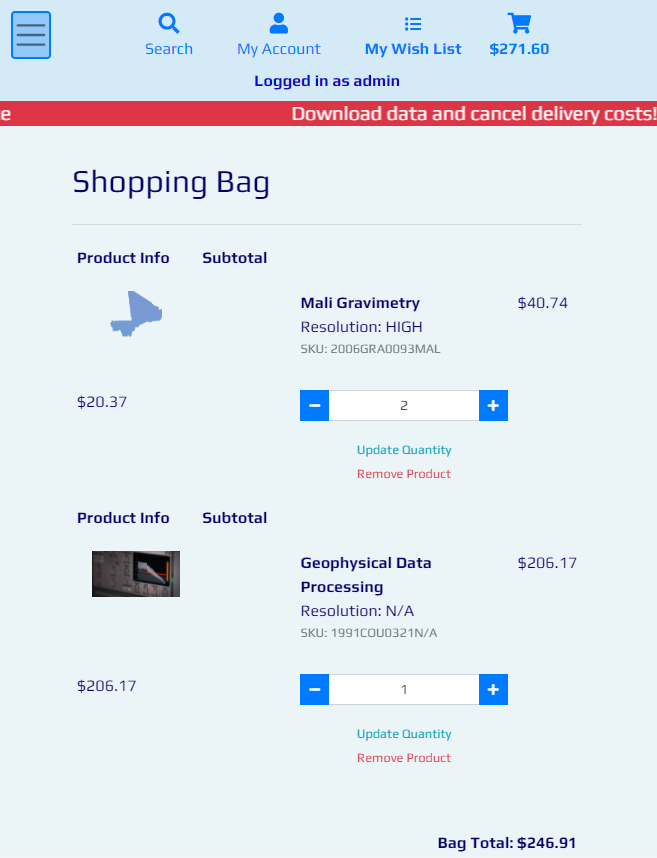
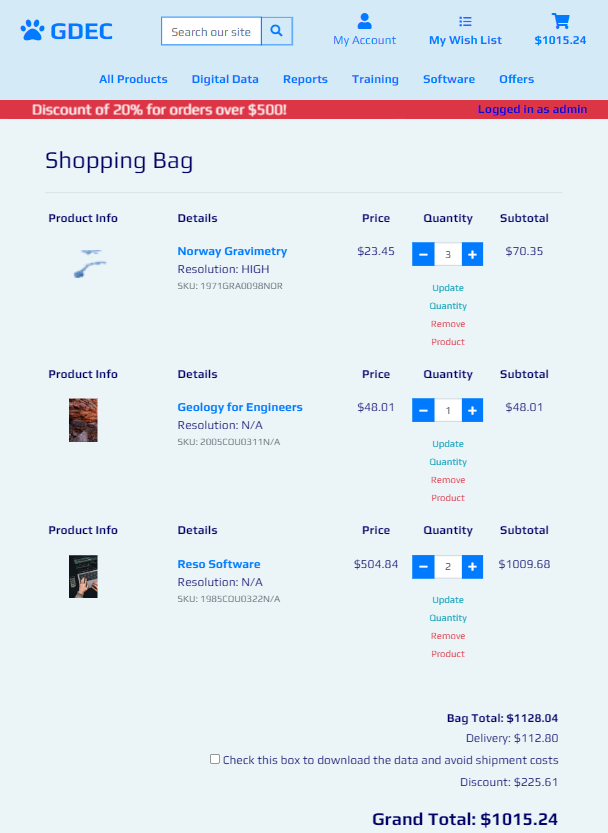
Correct tables in wish list and bag, and add evidence for user stories testing of returning users

diff --git a/bag/templates/bag/bag.html b/bag/templates/bag/bag.html
@@ -36,7 +36,7 @@
                             <tr class="d-none d-md-table-row">
                                 <!-- Product details -->
                                 <th scope="col">Product Info</th>
-                                <th scope="col" hidden>Product Details</th>
+                                <th scope="col">Details</th>
                                 <th scope="col" class="text-center">Price</th>
                                 <th scope="col" class="text-center">Quantity</th>
                                 <th scope="col" class="text-center">Subtotal</th>
@@ -116,14 +116,13 @@
                             <!-- Table for small size screens -->
                             <tr class="d-table-row d-md-none">
                                 <!-- Product details -->
-                                <th scope="col">Product Info</th>
-                                <th scope="col" hidden>Product Details</th>
+                                <th scope="col" colspan="2">Product Info</th>
+                                <th scope="col">Details</th>
                                 <th scope="col" hidden>Price</th>
-                                <th scope="col" hidden>Quantity</th>
                                 <th scope="col">Subtotal</th>
                             </tr>
                             <tr class="d-table-row d-md-none">
-                                <td class="p-3 w-50" colspan="2">
+                                <td class="p-3 w-50" colspan="1">
                                     <!-- Assign image to product or default "no-image" in database -->
                                     {% if item.product.image_name %}
                                     <img class="img-fluid rounded bag-image" src="{{ item.product.image_name.url }}" alt="{{ item.product.name }}">
@@ -137,7 +136,7 @@
                                     <p class="my-0">Resolution: {% if item.product.resolution %}{{ item.resolution|upper }}{% else %}N/A{% endif %}</p>
                                     <p class="my-0 small text-muted">SKU: {{ item.product.sku|upper }}</p>
                                 </td>
-                                <td class="py-3" rowspan="2">
+                                <td class="py-3" colspan="2">
                                     <p class="my-0">${{ item.product.price | calc_subtotal:item.quantity }}</p>
                                 </td>
                             </tr>
@@ -145,7 +144,7 @@
                                 <td class="py-3 w-25" colspan="2">
                                     <p class="my-0">${{ item.product.price }}</p>
                                 </td>
-                                <td class="py-3 w-75" colspan="2">
+                                <td class="py-3 w-75" colspan="1">
                                     <!-- Update bag if requested -->
                                     <form class="form update-form" method="POST" action="{% url 'adjust_bag' item.item_id %}">
                                         {% csrf_token %}
@@ -187,7 +186,9 @@
                                     </form>
                                     <a class="update-link text-info w-100 text-center float-right" id="update-bag-small-screen_{{ item.item_id }}_{{ item.resolution }}"><small>Update Quantity</small></a>
                                     <a class="remove-item text-danger w-100 text-center float-right" id="remove-from-bag-small-screen_{{ item.item_id }}_{{ item.resolution }}" data-product_resolution="{{ item.resolution }}"><small>Remove Product</small></a>
-                                </td>   
+                                </td>
+                                <td></td>
+                                <td></td>
                             </tr>
                         {% endfor %}                        
                         <tr>

diff --git a/wish/templates/wish/wish_list.html b/wish/templates/wish/wish_list.html
@@ -37,8 +37,8 @@
                             <!-- Product details -->
                             <tr class="d-none d-md-table-row">
                                 <!-- Product details -->
-                                <th scope="col" class="w-25" colspan="2">Product Info</th>
-                                <th scope="col" class="w-25" hidden>Product Details</th>
+                                <th scope="col" class="w-25">Product Info</th>
+                                <th scope="col" class="w-25">Details</th>
                                 <th scope="col" class="text-center">Price</th>
                                 <th scope="col" class="text-center">Quantity</th>
                                 <th scope="col" class="text-center">Subtotal</th>
@@ -57,7 +57,7 @@
                                     </a>
                                     {% endif %}
                                 </td>
-                                <td class="py-3 w-25" colspan="2">
+                                <td class="py-3 w-25" colspan="1">
                                     <!-- Include resolution if applicable -->
                                     <a href="{% url 'product_detail' item.product.id %}">
                                         <p class="my-0"><strong>{{ item.product.name }}</strong></p>

diff --git a/README.md b/README.md
@@ -2085,9 +2085,9 @@ The following are testing of User Stories previously described above:
 | Fixed navigation menu<br>Products (with product administration for the site owner)<br>Product details (with product administration for the site owner)<br> | Create a data model where products are viewed in the body of a unique page according to a specific selection | Show all products in a page (in the body) according to the selection and/or sort in the fixed navigation menu | Works as expected | 
 
 <details>
-    <summary>Screenshot</summary>
+    <summary>Products Page</summary>
 
-![Esri/ArcGIS Map to Pick Location](docs/features-and-evidence/Esri-map.PNG) 
+![Esri/ArcGIS Map to Pick Location](docs/features-and-evidence/products-to-buy.PNG) 
 </details>
 <br><br>
 
@@ -2099,9 +2099,9 @@ The following are testing of User Stories previously described above:
 | Fixed navigation menu<br>Products (with product administration for the site owner)<br>Product details (with product administration for the site owner)<br> | Create a view with product details after clicking on the product itself  | Show product details in a different page/view | Works as expected | 
 
 <details>
-    <summary>Screenshot</summary>
+    <summary>Product Details</summary>
 
-![Esri/ArcGIS Map to Pick Location](docs/features-and-evidence/Esri-map.PNG) 
+![Esri/ArcGIS Map to Pick Location](docs/features-and-evidence/product-details-to-buy.PNG) 
 </details>
 <br><br>
 
@@ -2113,9 +2113,14 @@ The following are testing of User Stories previously described above:
 | Fixed navigation menu<br>Bag page<br>Checkout page<br> | Create a bag app to show the current shopping cart, with a link in the fixed navigation menu | Show shopping cart in a different page/view | Works as expected | 
 
 <details>
-    <summary>Screenshot</summary>
+    <summary>Shopping Bag, top</summary>
 
-![Esri/ArcGIS Map to Pick Location](docs/features-and-evidence/Esri-map.PNG) 
+![Shopping Bag, top](docs/features-and-evidence/shopping-bag-top.PNG) 
+</details>
+<details>
+    <summary>Shopping Bag, bottom</summary>
+
+![Shopping Bag, bottom](docs/features-and-evidence/shopping-bag-bottom.PNG) 
 </details>
 <br><br>
 
@@ -2127,9 +2132,9 @@ The following are testing of User Stories previously described above:
 | Fixed navigation menu<br>Bag page<br> | Compute total of bag and return it to the view containing the fixed navigation menu | Show spent amount, at all times, in fixed navigation menu | Works as expected | 
 
 <details>
-    <summary>Screenshot</summary>
+    <summary>Permanent Spending Amount</summary>
 
-![Esri/ArcGIS Map to Pick Location](docs/features-and-evidence/Esri-map.PNG) 
+![Permanent Spending Amount](docs/features-and-evidence/spending-amount.PNG) 
 </details>
 <br><br>
 
@@ -2141,9 +2146,14 @@ The following are testing of User Stories previously described above:
 | Fixed navigation menu<br> | Include a link/list item element to special offers in the fixed navigation menu | Access special offers after cliking on this link/list item element of the menu | Works as expected | 
 
 <details>
-    <summary>Screenshot</summary>
+    <summary>Easy Access for Offers</summary>
 
-![Esri/ArcGIS Map to Pick Location](docs/features-and-evidence/Esri-map.PNG) 
+![Easy Access for Offers](docs/features-and-evidence/Esri-map.PNG) 
+</details>
+<details>
+    <summary>Easy Access for Offers in Checkout</summary>
+
+![Easy Access for Offers in Checkout](docs/features-and-evidence/checkout-success-with-offers-button.jpg) 
 </details>
 <br><br>
 
@@ -2155,9 +2165,14 @@ The following are testing of User Stories previously described above:
 | Fixed navigation menu<br> | Include a search field in the fixed navigation menu that looks for products (according to the search criteria) in the backend and return the results to the products page | Show products related to the search criteria | Works as expected | 
 
 <details>
-    <summary>Screenshot</summary>
+    <summary>Search Field for Desktop</summary>
 
-![Esri/ArcGIS Map to Pick Location](docs/features-and-evidence/Esri-map.PNG) 
+![Search Field for Desktop](docs/features-and-evidence/search-field-desktop.jpg) 
+</details>
+<details>
+    <summary>Search Field for Smaller Screens</summary>
+
+![Search Field for Smaller Screens](docs/features-and-evidence/search-field-smaller-screens.PNG) 
 </details>
 <br><br>
 
@@ -2169,9 +2184,34 @@ The following are testing of User Stories previously described above:
 | Fixed navigation menu<br>Products (with product administration for the site owner)<br> | Include links/list item elements in the fixed navigation menu that filter the data in the backend according to categories (previously created) and return the result to the products page/view | Show products related to the selected category in the menu | Works as expected | 
 
 <details>
-    <summary>Screenshot</summary>
+    <summary>Products by Categories</summary>
 
-![Esri/ArcGIS Map to Pick Location](docs/features-and-evidence/Esri-map.PNG) 
+![Products by Categories](docs/features-and-evidence/find-products-by-category-1.PNG) 
+</details>
+<details>
+    <summary>Products by Categories, Digital Data</summary>
+
+![Products by Categories, Digital Data](docs/features-and-evidence/find-products-by-category-2.PNG) 
+</details>
+<details>
+    <summary>Products by Categories, Reports</summary>
+
+![Products by Categories, Reports](docs/features-and-evidence/find-products-by-category-3.PNG) 
+</details>
+<details>
+    <summary>Products by Categories, Training</summary>
+
+![Products by Categories, Training](docs/features-and-evidence/find-products-by-category-4.PNG) 
+</details>
+<details>
+    <summary>Products by Categories, Software</summary>
+
+![Products by Categories, Software](docs/features-and-evidence/find-products-by-category-5.PNG) 
+</details>
+<details>
+    <summary>Products by Categories, Offers</summary>
+
+![Products by Categories, Offers](docs/features-and-evidence/find-products-by-category-6.PNG) 
 </details>
 <br><br>
 
@@ -2183,9 +2223,24 @@ The following are testing of User Stories previously described above:
 | Fixed navigation menu<br>Products (with product administration for the site owner)<br>Product details (with product administration for the site owner)<br>Bag page<br> | Compute total of bag and return it to the view containing the fixed navigation menu | Show spent amount, at all times, in fixed navigation menu | Works as expected | 
 
 <details>
-    <summary>Screenshot</summary>
+    <summary>Visible Prices in the Bag</summary>
 
-![Esri/ArcGIS Map to Pick Location](docs/features-and-evidence/Esri-map.PNG) 
+![Visible Prices in the Bag](docs/features-and-evidence/bag-tablet-prices.jpg) 
+</details>
+<details>
+    <summary>Visible Prices in the Product Details</summary>
+
+![Visible Prices in the Product Details](docs/features-and-evidence/product-details-prices.PNG) 
+</details>
+<details>
+    <summary>Visible Prices in the Wish List</summary>
+
+![Visible Prices in the Wish List](docs/features-and-evidence/wish-list-prices.jpg) 
+</details>
+<details>
+    <summary>Visible Prices in Products</summary>
+
+![Visible Prices in Products](docs/features-and-evidence/products-prices.PNG) 
 </details>
 <br><br>
 
